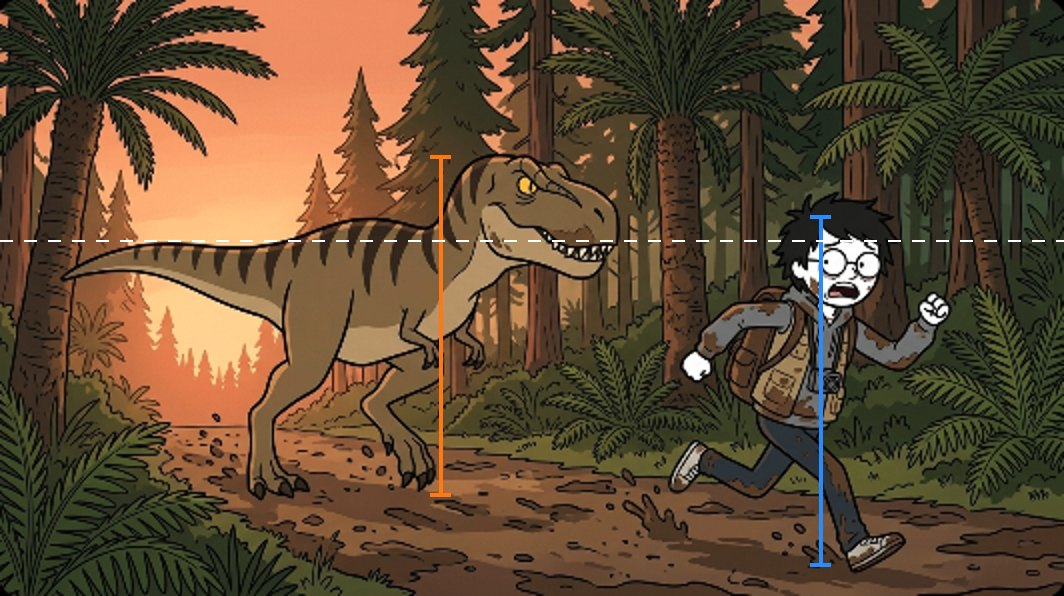
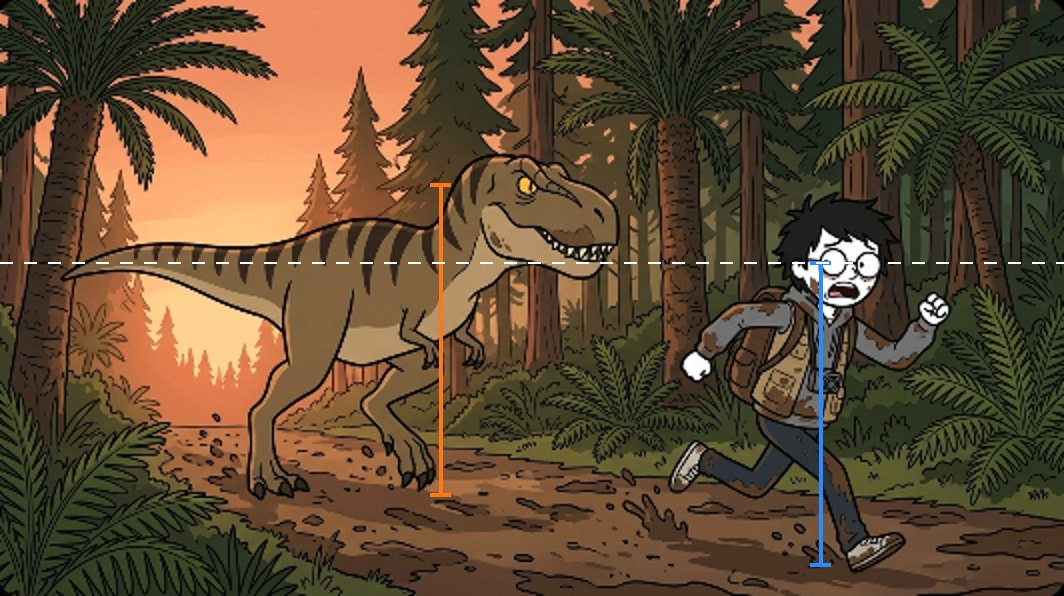
stickman: 暴龍比例檢查改用視線法重算

Changed region(s): [[0.7444, 0.3624, 0.7754, 0.453], [0.4032, 0.2416, 0.4342, 0.3322], [0.9925, 0.3926, 1.0, 0.453]]

diff --git a/stickman/scale-check/index.html b/stickman/scale-check/index.html
@@ -39,16 +39,17 @@ ul{margin:4px 0 0;padding-left:20px}li{margin:2px 0}
 <p class="sub">EP1 幕 1 第 2 版，Codex 和 Claude 各自分鏡後 Flow 畫出來、有 HERO 和 TEEN 同框的圖。對照 heights.json（HERO 1.72 m、TEEN 2.89 m，同一距離時 TEEN 是 HERO 的 1.68 倍，跟 PAIR_TEEN 比例圖量到的 1.69 倍一致），算出圖裡的 TEEN 等於幾公尺。</p></header>
 <div class="card"><h2>結論</h2><ul id="sum"></ul></div>
 <div class="card"><h2>怎麼量</h2>
-<ul><li><b>地面法</b>：兩個角色都站在地上時，像素高 ÷（腳底 − 地平線）＝ 真實身高 ÷ 相機高度，跟遠近無關。地平線（白色虛線）由 HERO 推：HERO 腳底往上 HERO 像素高 ×（相機高 ÷ 1.72）。相機高用模型回覆填的值。</li>
+<ul><li><b>視線法</b>（兩個角色都站在地上的平視圖）：prompt 寫「相機在 HERO（或 TEEN）的眼睛高度、平視」，所以那個角色的眼睛就在地平線上（白色虛線）。比相機高的東西不管多遠都會在線的上方，比相機低的都在下方。另一個角色的眼睛離地高度 ＝ 相機高 ×（腳底 − 眼睛）÷（腳底 − 地平線），<b>已經把兩人前後位置和鏡頭算進去</b>，不需要知道距離。眼睛高度用比例圖量：HERO 1.42 m、TEEN 2.66 m。藍、橘線是從眼睛量到腳底。</li>
 <li><b>髖部法</b>：HERO 跳在空中時，用頭頂到髖部（比例圖上約佔站高 0.57）推回站高，假設 TEEN 跟 HERO 差不多遠。</li>
 <li><b>正面法</b>：TEEN 在 HERO 正後方，腳被擋住。TEEN 比 HERO 遠，畫面上最多只能是 HERO 的 1.68 倍，超過就是太大（只算得出下限）。</li>
 <li>圖是 Flow 圖庫縮圖（532×298），像素是放大加刻度線讀的，誤差約 ±10%。判定：85–115% 正確、70–85% 略小、70% 以下太小、115–130% 略大、130% 以上太大。</li></ul>
-<div class="legend" style="margin-top:8px"><span style="--c:var(--hero)">HERO 量的範圍</span><span style="--c:var(--teen)">TEEN 量的範圍</span><span style="--c:#999">白色虛線＝推算的地平線</span></div></div>
+<div class="legend" style="margin-top:8px"><span style="--c:var(--hero)">HERO 量的範圍</span><span style="--c:var(--teen)">TEEN 量的範圍</span><span style="--c:#999">白色虛線＝地平線（相機高度）</span></div>
+<p class="sub" style="font-size:13px">2026-11-11 重算：站著的 8 張原本用頭頂和模型填的相機高度（地面法），改成用眼睛和 prompt 指定的相機位置（視線法），結果跟原本差不到 5%。</p></div>
 <div class="card"><h2>總表</h2><div class="tbl"><table id="tb"><tr><th>來源</th><th>圖</th><th>量法</th><th>圖裡的 TEEN</th><th>應有大小的</th><th>判定</th><th>該怎麼改</th></tr></table></div></div>
 <div class="grid" id="grid"></div>
 </main>
 <script>
-const R=[{"who": "codex", "shot": "02", "img": 1, "method": "地面法", "note": "", "cam": 1.6, "horizon": 208, "teen_m": 1.53, "pct": 53, "verdict": "太小", "fix": "TEEN 要放大約 1.9 倍（現在只有應有大小的 53%）", "src": "img/codex_02_1.jpg"}, {"who": "codex", "shot": "02", "img": 2, "method": "地面法", "note": "TEEN 在左邊陰影裡，頭頂位置較不確定", "cam": 1.6, "horizon": 231, "teen_m": 2.38, "pct": 82, "verdict": "略小", "fix": "TEEN 要放大約 1.2 倍（現在只有應有大小的 82%）", "src": "img/codex_02_2.jpg"}, {"who": "codex", "shot": "03", "img": 1, "method": "地面法", "note": "", "cam": 1.6, "horizon": 47, "teen_m": 1.41, "pct": 49, "verdict": "太小", "fix": "TEEN 要放大約 2.1 倍（現在只有應有大小的 49%）", "src": "img/codex_03_1.jpg"}, {"who": "codex", "shot": "03", "img": 2, "method": "地面法", "note": "", "cam": 1.6, "horizon": 60, "teen_m": 1.51, "pct": 52, "verdict": "太小", "fix": "TEEN 要放大約 1.9 倍（現在只有應有大小的 52%）", "src": "img/codex_03_2.jpg"}, {"who": "codex", "shot": "04", "img": 1, "method": "地面法", "note": "TEEN 一隻腳出框，腳底用另一腳推估", "cam": 2.5, "horizon": 48, "teen_m": 2.56, "pct": 89, "verdict": "正確", "fix": "不用改", "src": "img/codex_04_1.jpg"}, {"who": "codex", "shot": "04", "img": 2, "method": "地面法", "note": "兩個角色的腳都出框，是下限估計", "cam": 2.5, "horizon": 32, "teen_m": 2.43, "pct": 84, "verdict": "略小", "fix": "TEEN 要放大約 1.2 倍（現在只有應有大小的 84%）", "src": "img/codex_04_2.jpg"}, {"who": "codex", "shot": "05", "img": 1, "method": "髖部法", "note": "HERO 跳在空中；TEEN 頭頂出框，是下限估計", "cam": null, "teen_m": 2.19, "pct": 76, "verdict": "略小", "fix": "TEEN 要放大約 1.3 倍（現在只有應有大小的 76%）", "src": "img/codex_05_1.jpg"}, {"who": "codex", "shot": "05", "img": 2, "method": "髖部法", "note": "HERO 跳在空中", "cam": null, "teen_m": 1.36, "pct": 47, "verdict": "太小", "fix": "TEEN 要放大約 2.1 倍（現在只有應有大小的 47%）", "src": "img/codex_05_2.jpg"}, {"who": "claude", "shot": "04", "img": 1, "method": "地面法", "note": "", "cam": 1.6, "horizon": 120, "teen_m": 2.13, "pct": 74, "verdict": "略小", "fix": "TEEN 要放大約 1.4 倍（現在只有應有大小的 74%）", "src": "img/claude_04_1.jpg"}, {"who": "claude", "shot": "04", "img": 2, "method": "地面法", "note": "", "cam": 1.6, "horizon": 118, "teen_m": 1.93, "pct": 67, "verdict": "太小", "fix": "TEEN 要放大約 1.5 倍（現在只有應有大小的 67%）", "src": "img/claude_04_2.jpg"}, {"who": "claude", "shot": "05", "img": 1, "method": "正面法", "note": "TEEN 在 HERO 正後方，腳被 HERO 擋住，腳底是推估", "cam": null, "teen_m": 3.61, "pct": 125, "verdict": "略大（至少）", "fix": "TEEN 至少要縮到現在的 80% 以下，等於讓 TEEN 退到 HERO 後面應有的距離；或改成局部鏡頭只露頭和嘴", "src": "img/claude_05_1.jpg"}, {"who": "claude", "shot": "05", "img": 2, "method": "正面法", "note": "TEEN 在 HERO 正後方，腳被 HERO 擋住，腳底是推估", "cam": null, "teen_m": 3.78, "pct": 131, "verdict": "太大（至少）", "fix": "TEEN 至少要縮到現在的 76% 以下，等於讓 TEEN 退到 HERO 後面應有的距離；或改成局部鏡頭只露頭和嘴", "src": "img/claude_05_2.jpg"}, {"who": "claude", "shot": "06", "img": 1, "method": "局部鏡頭", "note": "從 TEEN 背後拍，TEEN 只露頭和上半身（局部鏡頭），量不出全身", "cam": null, "pct": null, "verdict": "不量", "fix": "局部鏡頭本來就只露一部分，符合「尺寸差太多就用局部鏡頭」", "src": "img/claude_06_1.jpg"}, {"who": "claude", "shot": "06", "img": 2, "method": "局部鏡頭", "note": "從 TEEN 背後拍，TEEN 只露頭和上半身（局部鏡頭），量不出全身", "cam": null, "pct": null, "verdict": "不量", "fix": "局部鏡頭本來就只露一部分，符合「尺寸差太多就用局部鏡頭」", "src": "img/claude_06_2.jpg"}, {"who": "claude", "shot": "07", "img": 1, "method": "髖部法", "note": "HERO 跳在空中", "cam": null, "teen_m": 1.85, "pct": 64, "verdict": "太小", "fix": "TEEN 要放大約 1.6 倍（現在只有應有大小的 64%）", "src": "img/claude_07_1.jpg"}, {"who": "claude", "shot": "07", "img": 2, "method": "髖部法", "note": "HERO 跳在空中", "cam": null, "teen_m": 1.52, "pct": 53, "verdict": "太小", "fix": "TEEN 要放大約 1.9 倍（現在只有應有大小的 53%）", "src": "img/claude_07_2.jpg"}];
+const R=[{"who": "codex", "shot": "02", "img": 1, "method": "視線法", "note": "", "cam": "HERO", "eye_m": 1.39, "horizon": 213, "cam_eye": "HERO", "teen_m": 1.51, "pct": 52, "verdict": "太小", "fix": "TEEN 要放大約 1.9 倍（現在只有應有大小的 52%）", "src": "img/codex_02_1.jpg"}, {"who": "codex", "shot": "02", "img": 2, "method": "視線法", "note": "TEEN 在左邊陰影裡，眼睛位置較不確定", "cam": "HERO", "eye_m": 2.23, "horizon": 234, "cam_eye": "HERO", "teen_m": 2.42, "pct": 84, "verdict": "略小", "fix": "TEEN 要放大約 1.2 倍（現在只有應有大小的 84%）", "src": "img/codex_02_2.jpg"}, {"who": "codex", "shot": "03", "img": 1, "method": "視線法", "note": "", "cam": "HERO", "eye_m": 1.32, "horizon": 75, "cam_eye": "HERO", "teen_m": 1.44, "pct": 50, "verdict": "太小", "fix": "TEEN 要放大約 2.0 倍（現在只有應有大小的 50%）", "src": "img/codex_03_1.jpg"}, {"who": "codex", "shot": "03", "img": 2, "method": "視線法", "note": "", "cam": "HERO", "eye_m": 1.37, "horizon": 79, "cam_eye": "HERO", "teen_m": 1.49, "pct": 52, "verdict": "太小", "fix": "TEEN 要放大約 1.9 倍（現在只有應有大小的 52%）", "src": "img/codex_03_2.jpg"}, {"who": "codex", "shot": "04", "img": 1, "method": "視線法", "note": "TEEN 一隻腳出框，腳底用另一腳推估", "cam": "TEEN", "eye_m": 1.57, "horizon": 65, "cam_eye": "TEEN", "teen_m": 2.61, "pct": 90, "verdict": "正確", "fix": "不用改", "src": "img/codex_04_1.jpg"}, {"who": "codex", "shot": "04", "img": 2, "method": "視線法", "note": "HERO 的腳出框，腳底再低的話 TEEN 會更小，是上限估計", "cam": "TEEN", "eye_m": 1.75, "horizon": 64, "cam_eye": "TEEN", "teen_m": 2.34, "pct": 81, "verdict": "略小", "fix": "TEEN 要放大約 1.2 倍（現在只有應有大小的 81%）", "src": "img/codex_04_2.jpg"}, {"who": "codex", "shot": "05", "img": 1, "method": "髖部法", "note": "HERO 跳在空中，量不出他站在哪：側拍、兩個都在小路上，假設一樣遠。TEEN 頭頂出框，是下限", "cam": null, "teen_m": 2.19, "pct": 76, "verdict": "略小", "fix": "TEEN 要放大約 1.3 倍（現在只有應有大小的 76%）", "src": "img/codex_05_1.jpg"}, {"who": "codex", "shot": "05", "img": 2, "method": "髖部法", "note": "HERO 跳在空中，量不出他站在哪：側拍、兩個都在小路上，假設一樣遠", "cam": null, "teen_m": 1.36, "pct": 47, "verdict": "太小", "fix": "TEEN 要放大約 2.1 倍（現在只有應有大小的 47%）", "src": "img/codex_05_2.jpg"}, {"who": "claude", "shot": "04", "img": 1, "method": "視線法", "note": "", "cam": "HERO", "eye_m": 1.9, "horizon": 131, "cam_eye": "HERO", "teen_m": 2.06, "pct": 71, "verdict": "略小", "fix": "TEEN 要放大約 1.4 倍（現在只有應有大小的 71%）", "src": "img/claude_04_1.jpg"}, {"who": "claude", "shot": "04", "img": 2, "method": "視線法", "note": "", "cam": "HERO", "eye_m": 1.73, "horizon": 131, "cam_eye": "HERO", "teen_m": 1.88, "pct": 65, "verdict": "太小", "fix": "TEEN 要放大約 1.5 倍（現在只有應有大小的 65%）", "src": "img/claude_04_2.jpg"}, {"who": "claude", "shot": "05", "img": 1, "method": "正面法", "note": "TEEN 在 HERO 正後方，腳被 HERO 擋住，腳底是推估", "cam": null, "teen_m": 3.61, "pct": 125, "verdict": "略大（至少）", "fix": "TEEN 至少要縮到現在的 80% 以下，等於讓 TEEN 退到 HERO 後面應有的距離；或改成局部鏡頭只露頭和嘴", "src": "img/claude_05_1.jpg"}, {"who": "claude", "shot": "05", "img": 2, "method": "正面法", "note": "TEEN 在 HERO 正後方，腳被 HERO 擋住，腳底是推估", "cam": null, "teen_m": 3.78, "pct": 131, "verdict": "太大（至少）", "fix": "TEEN 至少要縮到現在的 76% 以下，等於讓 TEEN 退到 HERO 後面應有的距離；或改成局部鏡頭只露頭和嘴", "src": "img/claude_05_2.jpg"}, {"who": "claude", "shot": "06", "img": 1, "method": "局部鏡頭", "note": "從 TEEN 背後拍，TEEN 只露頭和上半身（局部鏡頭），量不出全身", "cam": null, "pct": null, "verdict": "不量", "fix": "局部鏡頭本來就只露一部分，符合「尺寸差太多就用局部鏡頭」", "src": "img/claude_06_1.jpg"}, {"who": "claude", "shot": "06", "img": 2, "method": "局部鏡頭", "note": "從 TEEN 背後拍，TEEN 只露頭和上半身（局部鏡頭），量不出全身", "cam": null, "pct": null, "verdict": "不量", "fix": "局部鏡頭本來就只露一部分，符合「尺寸差太多就用局部鏡頭」", "src": "img/claude_06_2.jpg"}, {"who": "claude", "shot": "07", "img": 1, "method": "髖部法", "note": "HERO 跳在空中，量不出他站在哪：側拍、兩個都在小路上，假設一樣遠", "cam": null, "teen_m": 1.85, "pct": 64, "verdict": "太小", "fix": "TEEN 要放大約 1.6 倍（現在只有應有大小的 64%）", "src": "img/claude_07_1.jpg"}, {"who": "claude", "shot": "07", "img": 2, "method": "髖部法", "note": "HERO 跳在空中，量不出他站在哪：側拍、兩個都在小路上，假設一樣遠", "cam": null, "teen_m": 1.52, "pct": 53, "verdict": "太小", "fix": "TEEN 要放大約 1.9 倍（現在只有應有大小的 53%）", "src": "img/claude_07_2.jpg"}];
 const esc=t=>String(t??'').replace(/&/g,'&amp;').replace(/</g,'&lt;').replace(/"/g,'&quot;');
 const cls=v=>v.startsWith('正確')?'ok':v.startsWith('略')?'warn':v.startsWith('太')?'bad':'na';
 const name=w=>w==='codex'?'Codex':'Claude';
@@ -57,7 +58,7 @@ document.getElementById('grid').innerHTML=R.map(r=>{const p=r.pct==null?0:Math.m
   return `<div class="card shot"><img src="${esc(r.src)}" alt="${r.who} ${r.shot}-${r.img}">
   <div class="bar"><span class="who ${r.who}">${name(r.who)}</span><span class=k>EP1-01-${r.shot}・第 ${r.img} 張</span><span class="v ${cls(r.verdict)}">${esc(r.verdict)}</span></div>
   ${r.pct!=null?`<div class="meter" title="100% = 正確"><i style="width:${p/2}%;background:var(--${cls(r.verdict)==='ok'?'ok':cls(r.verdict)==='warn'?'warn':'bad'})"></i><b></b></div>
-  <div class=k>TEEN ${r.teen_m} m／應為 2.89 m（${r.pct}%）・${esc(r.method)}${r.cam?'・相機高 '+r.cam+' m':''}</div>`:`<div class=k>${esc(r.method)}</div>`}
+  <div class=k>TEEN 相當於 ${r.teen_m} m／應為 2.89 m（${r.pct}%）・${esc(r.method)}${r.cam_eye?'・相機在 '+r.cam_eye+' 眼睛高度，量到 '+(r.cam_eye==='HERO'?'TEEN':'HERO')+' 眼睛離地 '+r.eye_m+' m（應為 '+(r.cam_eye==='HERO'?'2.66':'1.42')+' m）':''}</div>`:`<div class=k>${esc(r.method)}</div>`}
   <div style="margin-top:4px">${esc(r.fix)}</div>${r.note?`<div class="sub" style="font-size:13px">${esc(r.note)}</div>`:''}</div>`}).join('');
 const by=w=>R.filter(r=>r.who===w&&r.pct!=null);
 const fmt=w=>{const a=by(w);return `${name(w)}：量了 ${a.length} 張，正確 ${a.filter(r=>r.verdict==='正確').length} 張；TEEN 是應有大小的 ${Math.min(...a.map(r=>r.pct))}–${Math.max(...a.map(r=>r.pct))}%`};
